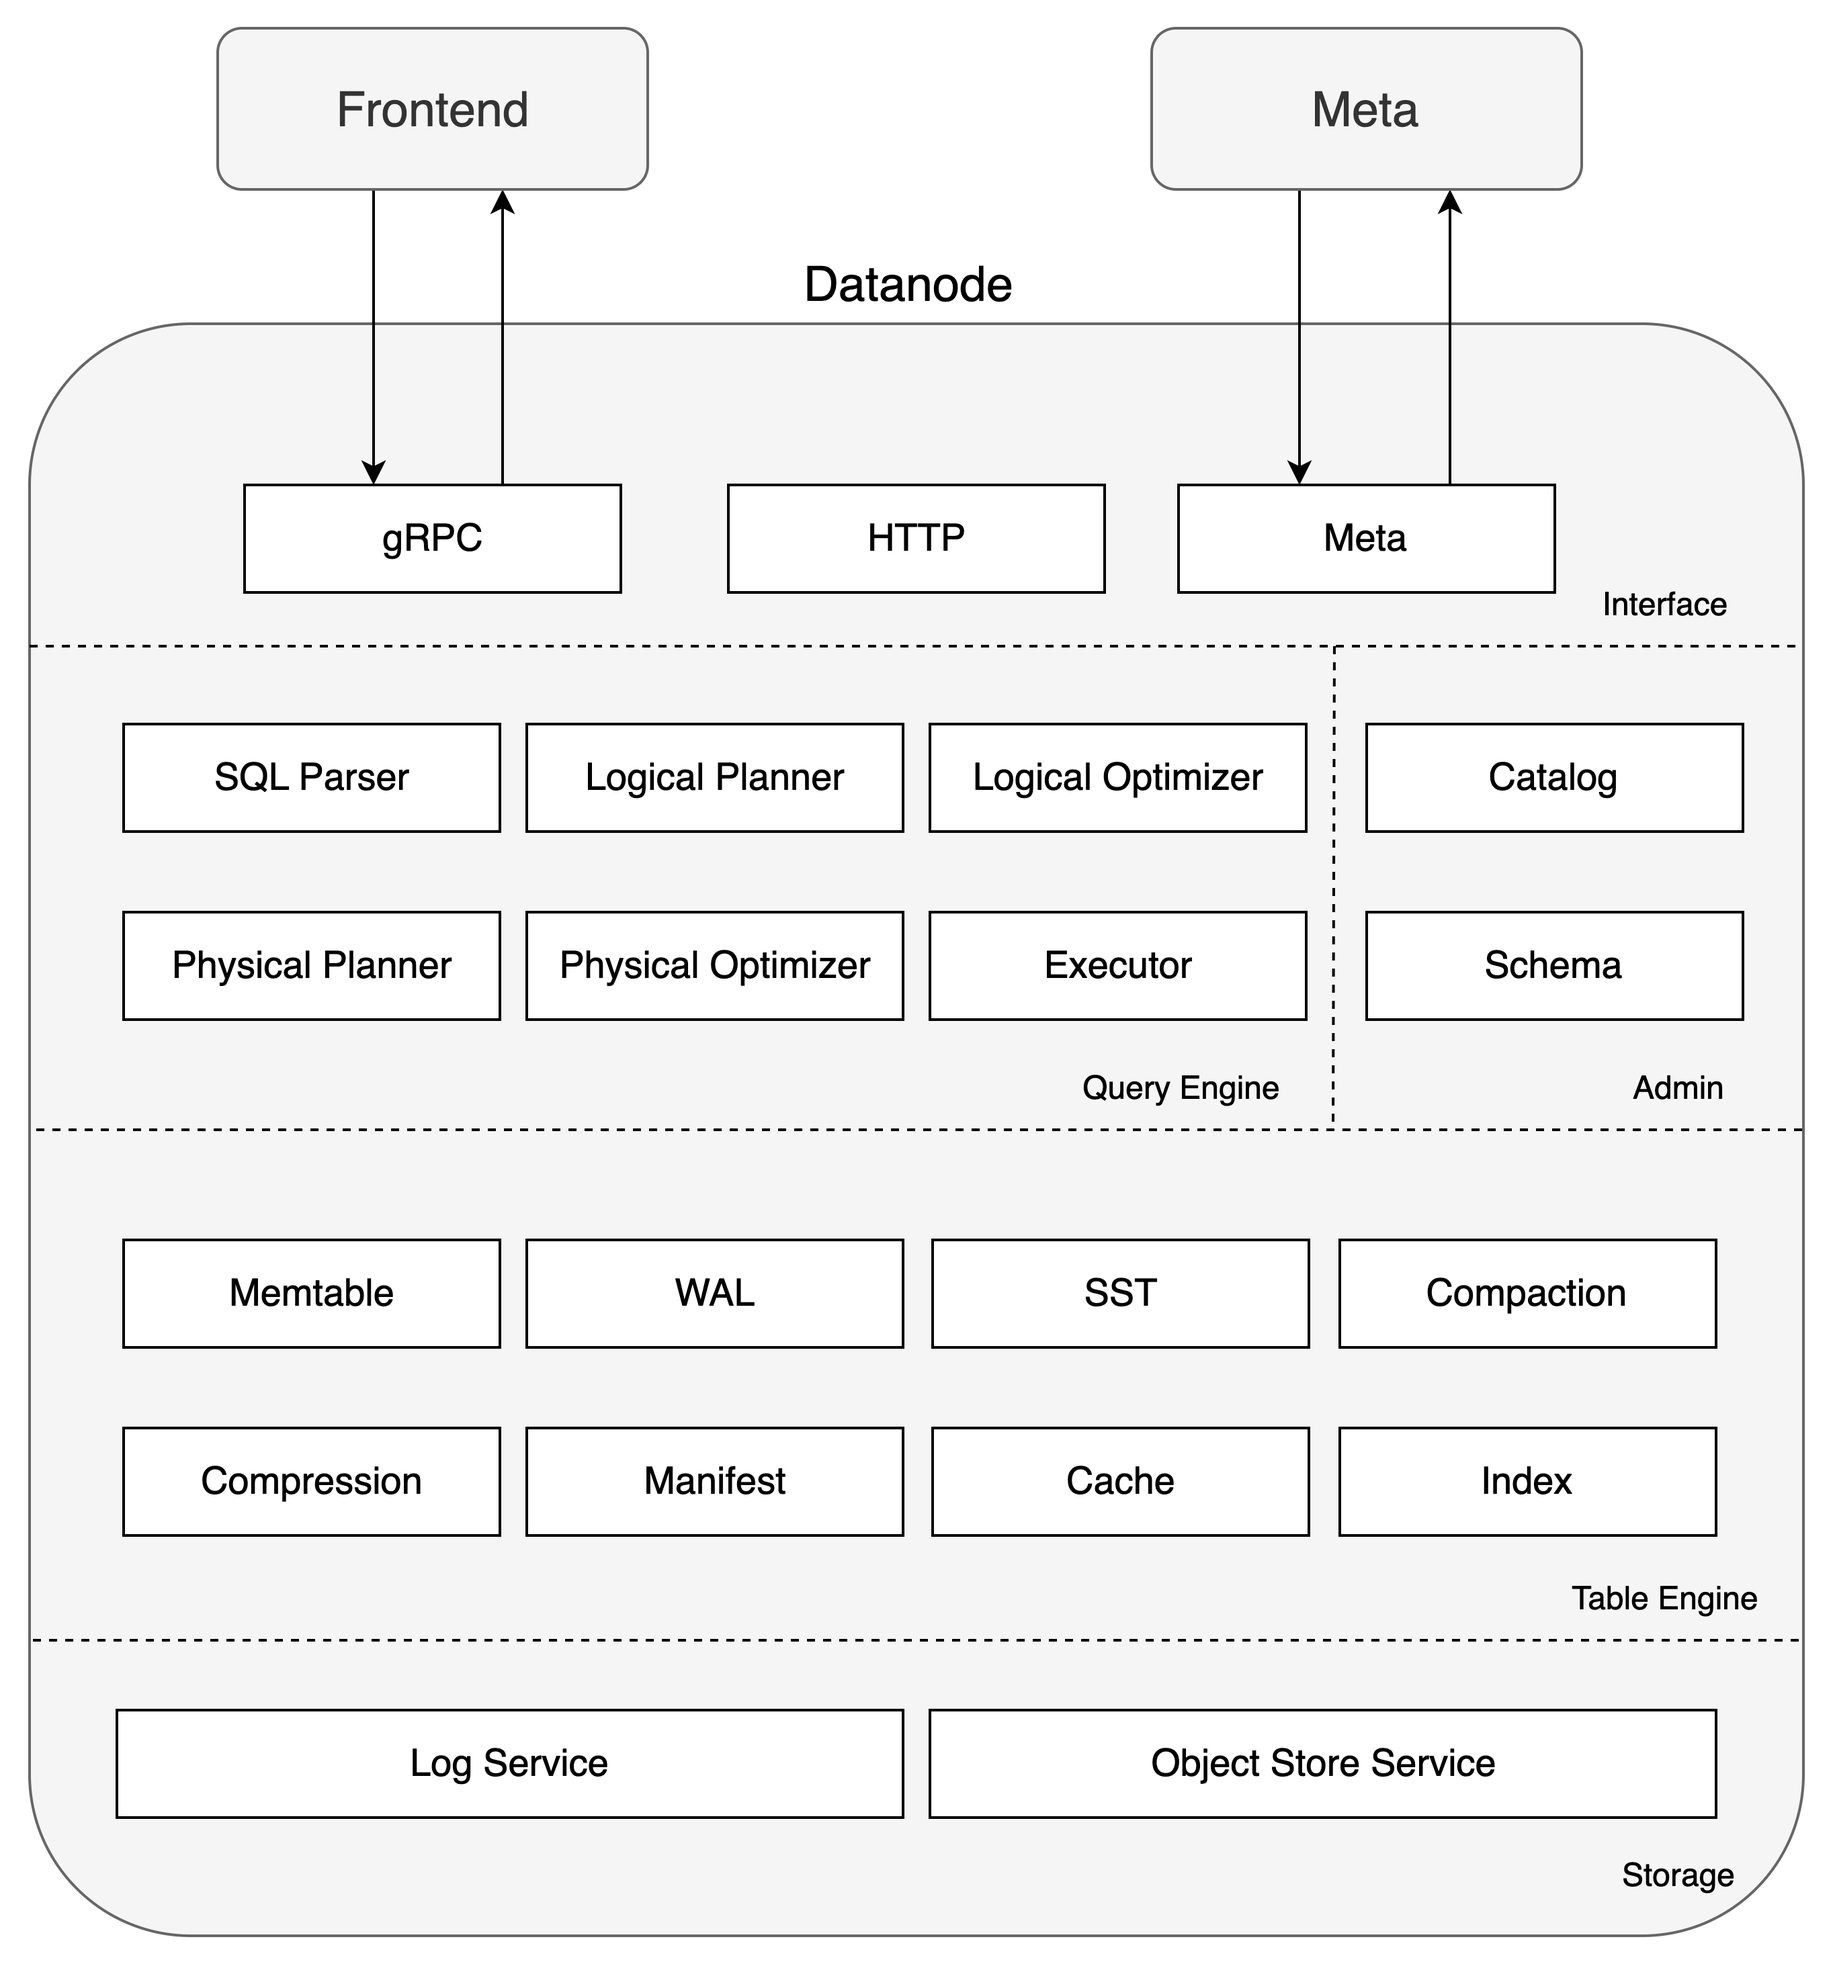
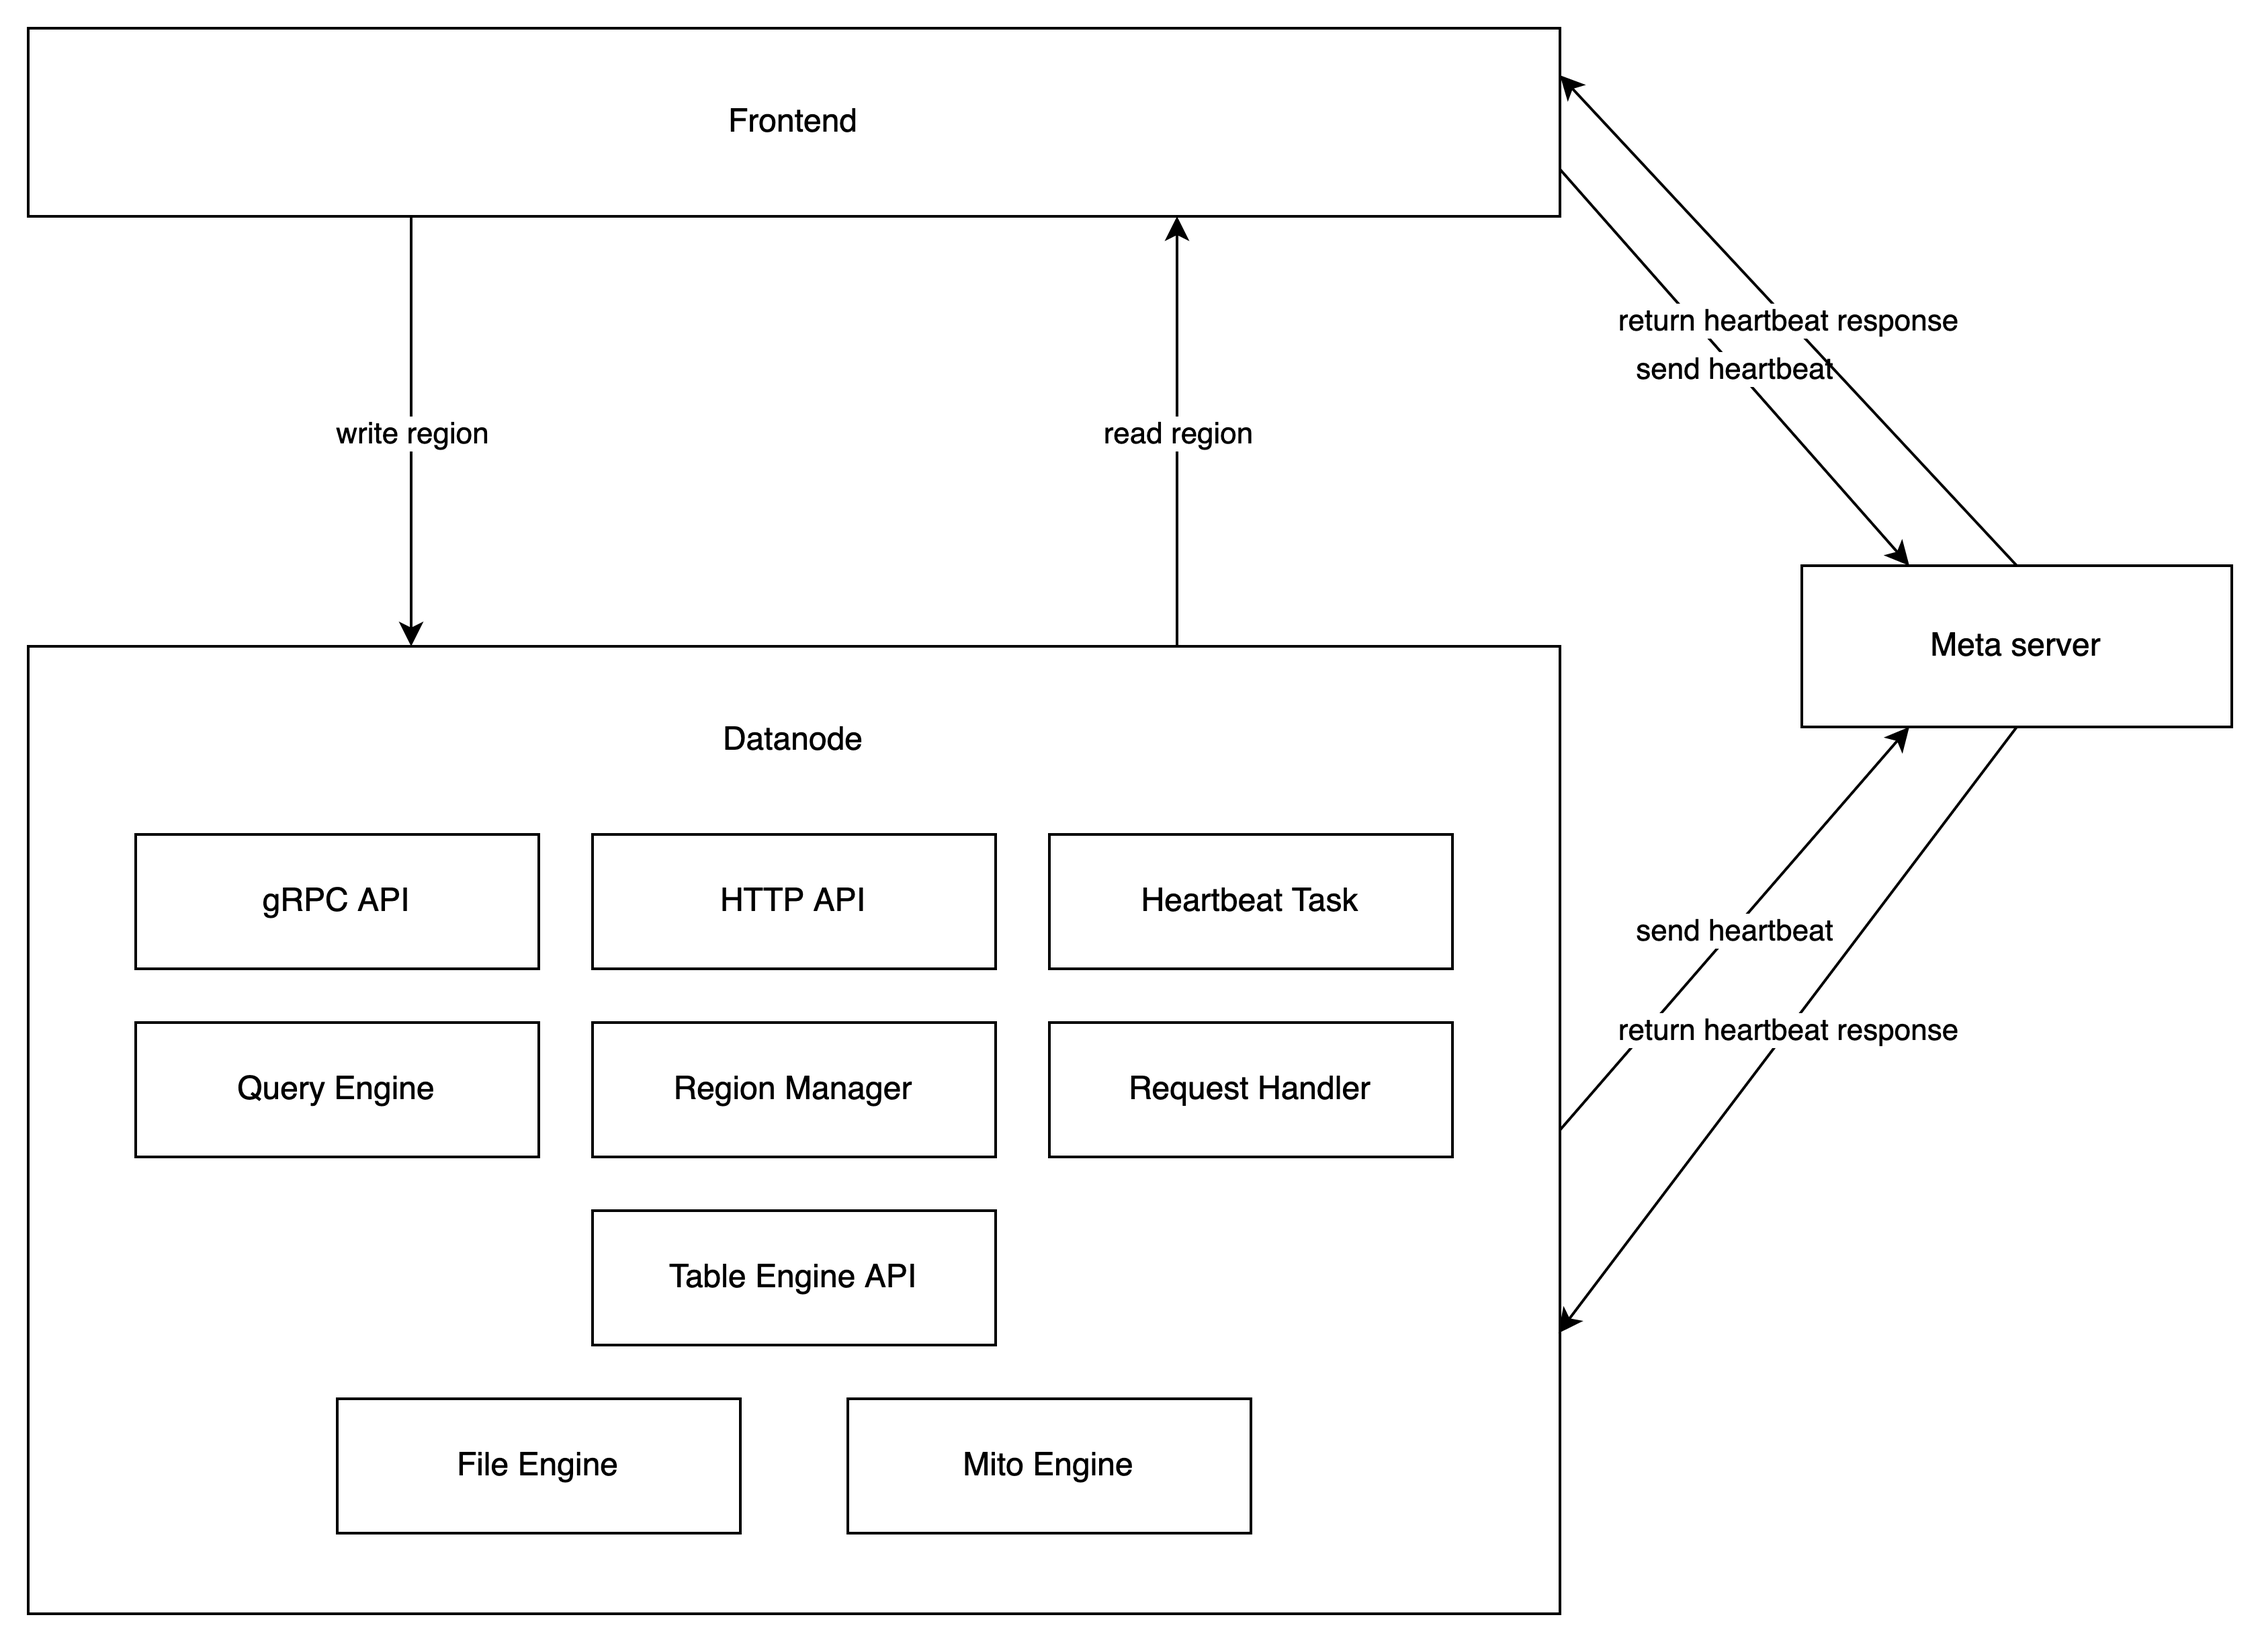
docs: developer guide datanode overview

diff --git a/docs/en/v0.4/developer-guide/datanode/overview.md b/docs/en/v0.4/developer-guide/datanode/overview.md
@@ -2,47 +2,28 @@
 
 ## Introduction
 
-`Datanode` is mainly responsible for storing the actual data for GreptimeDB. `Datanode` itself is a
-stand-alone database service. Meanwhile, it could cooperate with `Frontend` and `Meta` to form a
-distributed database service, as the following picture shows:
+`Datanode` is mainly responsible for storing the actual data for GreptimeDB.. As we know, in GreptimeDB,
+a table can have one or more `region`s, and `Datanode` is responsible for managing the reading and writing
+of these `region`s. `Datanode` is not aware of table and can be considered as a `region server`. Therefore,
+`Frontend` and `Metaserver` operate `Datanode` at the granularity of `region`.
 
 ![Datanode](/datanode.png)
 
 ## Components
 
-A `Datanode` contains many components needed to build up a database system. Here we list most of
-these components (some are in progress):
+A `Datanode` contains all the components needed for a `region server`. Here we list some of the vital parts:
 
-- A gRPC service provides read/write access to the data managed by this node. `Frontend` also uses
-  the RPC service to interact with `Datanode`s.
-- An HTTP service implements the HTTP protocol of other TSDBs or databases, and for debugging purposes.
-- `Meta` client interacts with the `Meta` service.
-- Handlers contain the actual processing logic for RPC/HTTP requests.
-- Catalog manages the metadata of the database objects, such as tables, and views in this node.
-- Resource management controls the usage of memory, CPU, and disk.
-- Physical planner, optimizer, and executor are for executing queries from the `Frontend`. `Datanode` also
-  contains components not shown in the picture, such as logical planner, and logical optimizer, which can
-  only be invoked in stand-alone mode.
-- Table engine implements the table model based on the storage engine. Note that `Datanode` is
-  designed to support multiple table engines, though currently, only one table engine has been
-  implemented.
-- [Storage engine][1] consists of many sub-components:
-  - [WAL][2]
-  - Memtable
-  - Cache
-  - SST
-  - ...
-- Abstraction layer is for log and object store services. We use the log service to implement
-  WAL.
-
-## Details
-
-- [Storage engine][1]
-- [Query engine][3]
-- [Write-Ahead Logging][2]
-- [Data persistence and indexing][4]
-
-[1]: ./storage-engine.md
-[2]: ./wal.md
-[3]: ./query-engine.md
-[4]: ./data-persistence-indexing.md
+- A gRPC service is provided for reading and writing region data, and `Frontend` uses this service
+  to read and write data from `Datanode`s.
+- An HTTP service, through which you can obtain metrics, configuration information, etc., of the current node.
+- `Heartbeat Task` is used to send heartbeat to the `Meta server`. The heartbeat plays a crucial role in the
+  distributed architecture of GreptimeDB and serves as a basic communication channel for distributed coordination.
+  The upstream heartbeat messages contain important information such as the workload of a `Region`. If the
+  `Meta server `has made scheduling(such as `Region` migration) decisions, it will send instructions to the
+  `Datanode` via downstream heartbeat messages.
+- The `Datanode` does not include components like the `Physical Planner`, `Optimizer`, etc. (these are placed in
+  the `Frontend`). The user's query requests for one or more `Table`s will be transformed into `Region` query
+  requests in the `Frontend`. The `Datanode` is responsible for handling these `Region` query requests.
+- A `Region Manager` is used to manage all `Region`s on a `Datanode`.
+- GreptimeDB supports a pluggable multi-engine architecture, with existing engines including `File Engine` and
+  `Mito Engine`.

diff --git a/docs/zh/v0.4/developer-guide/datanode/overview.md b/docs/zh/v0.4/developer-guide/datanode/overview.md
@@ -2,47 +2,22 @@
 
 ## Introduction
 
-`Datanode` is mainly responsible for storing the actual data for GreptimeDB. `Datanode` itself is a
-stand-alone database service. Meanwhile, it could cooperate with `Frontend` and `Meta` to form a
-distributed database service, as the following picture shows:
+`Datanode` 主要的职责是为 GreptimeDB 存储数据，我们知道在 GreptimeDB 中一个 Table 可以有一个或者多个 `region`, 
+而 `Datanode` 的职责便是管理这些 `region` 的读写。`Datanode` 不感知 `table`，可以认为它是一个 region server。
+所以 `Frontend` 和 `Metaserver` 按照 `region` 粒度来操作 `Datanode`。
 
 ![Datanode](/datanode.png)
 
 ## Components
 
-A `Datanode` contains many components needed to build up a database system. Here we list most of
-these components (some are in progress):
+一个 datanode 包含了 region server 所需的全部组件。这里列出了比较重要的部分：
 
-- A gRPC service provides read/write access to the data managed by this node. `Frontend` also uses
-  the RPC service to interact with `Datanode`s.
-- An HTTP service implements the HTTP protocol of other TSDBs or databases, and for debugging purposes.
-- `Meta` client interacts with the `Meta` service.
-- Handlers contain the actual processing logic for RPC/HTTP requests.
-- Catalog manages the metadata of the database objects, such as tables, and views in this node.
-- Resource management controls the usage of memory, CPU, and disk.
-- Physical planner, optimizer, and executor are for executing queries from the `Frontend`. `Datanode` also
-  contains components not shown in the picture, such as logical planner, and logical optimizer, which can
-  only be invoked in stand-alone mode.
-- Table engine implements the table model based on the storage engine. Note that `Datanode` is
-  designed to support multiple table engines, though currently, only one table engine has been
-  implemented.
-- [Storage engine][1] consists of many sub-components:
-  - [WAL][2]
-  - Memtable
-  - Cache
-  - SST
-  - ...
-- Abstraction layer is for log and object store services. We use the log service to implement
-  WAL.
-
-## Details
-
-- [Storage engine][1]
-- [Query engine][3]
-- [Write-Ahead Logging][2]
-- [Data persistence and indexing][4]
-
-[1]: ./storage-engine.md
-[2]: ./wal.md
-[3]: ./query-engine.md
-[4]: ./data-persistence-indexing.md
+- 一个 gRPC 服务来提供对 region 数据的读写，`Frontend` 便是使用这个服务来从 `Datanode` 读写数据。
+- 一个 HTTP 服务，可以通过它来获得当前节点的 metrics、 配置信息等
+- `Heartbeat Task` 用来向 `Meta server` 发送心跳，心跳在 GreptimeDB 的分布式架构中发挥着至关重要的作用，
+  是分布式协调和调度的基础通信通道，心跳的上行消息中包含了重要信息比如 `Region` 的负载，如果 `Meta server` 做出了调度
+  决定（比如 Region 转移），它会通过心跳的下行消息发送指令到 `Datanode`
+- `Datanode` 不包含物理规划器（Physical planner）、优化器（optimizer）等组件（这些被放置在 `Frontend` 中），用户对
+  一个或多个 `Table` 的查询请求会在 `Frontend` 中被转换为 `Region` 的查询请求，`Datanode` 负责处理这些 `Region` 查询请求
+- 一个 `Region Manager` 用来管理 `Datanode` 上的所有 `Region`s
+- GreptimeDB 支持可插拔的多引擎架构，目前已有的 engine 包括 `File Engine` 和 `Mito Engine`
